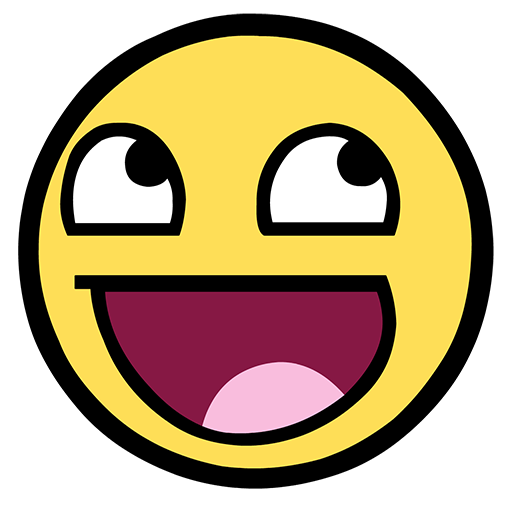
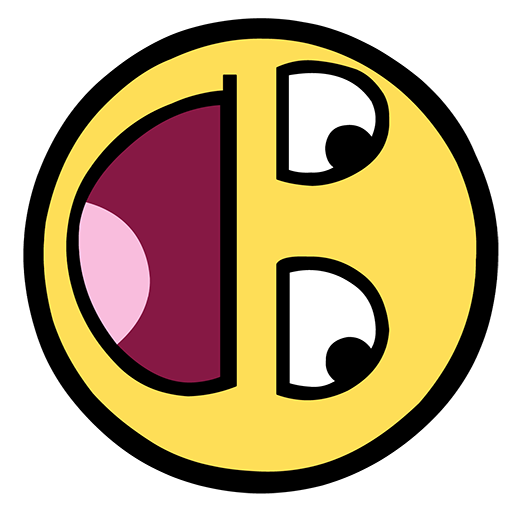
PlayerObject

diff --git a/Cowsteroids/PlayerObject.cpp b/Cowsteroids/PlayerObject.cpp
@@ -1,0 +1,76 @@
+#include "PlayerObject.h"
+
+#include <GLFW\glfw3.h>
+#include <iostream>
+#include "InputManager.h"
+
+PlayerObject::PlayerObject(glm::vec2 pos, glm::vec2 size, Texture sprite, glm::vec3 color, float rotation)
+{
+	this->position = pos;
+	this->size = size;
+	this->velocity = glm::vec2(0.0f, 0.0f);
+	this->color = color;
+	this->rotation = rotation;
+	this->sprite = sprite;
+	this->speed = 0.0f;
+	this->acceleration = 0.0f;
+	this->maxSpeed = 5.0f;
+}
+
+PlayerObject::~PlayerObject()
+{
+
+}
+
+void PlayerObject::HandleInput(float dt)
+{
+	if (InputManager::Held(GLFW_KEY_A))
+	{
+		rotation -= dt;
+	}
+	if (InputManager::Held(GLFW_KEY_D))
+	{
+		rotation += dt;
+	}
+	if (InputManager::Held(GLFW_KEY_W))
+	{
+		acceleration += dt;
+	}
+	if (InputManager::Held(GLFW_KEY_S))
+	{
+		acceleration -= dt;
+	}
+
+	if (!InputManager::Held(GLFW_KEY_W) && !InputManager::Held(GLFW_KEY_S))
+	{
+		acceleration = 0.0f;
+		if (speed > 0.05f)
+		{
+			speed -= dt;
+		}
+		else if (speed < -0.05f)
+		{
+			speed += dt;
+		}
+		else
+		{
+			speed = 0.0f;
+		}
+	}
+
+	speed += acceleration;
+
+	if (speed > maxSpeed)
+	{
+		speed = maxSpeed;
+	}
+	else if (-speed > maxSpeed)
+	{
+		speed = -maxSpeed;
+	}
+
+	glm::vec2 dir(speed * cos(rotation), speed * sin(rotation));
+	std::cout << abs(speed) << std::endl;
+
+	position += dir;
+}

diff --git a/Cowsteroids/Game.cpp b/Cowsteroids/Game.cpp
@@ -36,11 +36,13 @@ void Game::Initialize()
 	ResourceManager::LoadTexture("../Assets/awesomeface.png", true, "ball");
 
 	spriteRenderer = new SpriteRenderer(ResourceManager::GetShader("sprite"));
+
+	player = new PlayerObject(glm::vec2(100.0f, 100.0f), glm::vec2(100.0f, 100.0f), ResourceManager::GetTexture("ball"));
 }
 
 void Game::ProcessInput(float dt)
 {
-
+	player->HandleInput(dt);
 }
 
 void Game::Update(float dt)
@@ -51,4 +53,5 @@ void Game::Update(float dt)
 void Game::Render()
 {
 	spriteRenderer->DrawSprite(ResourceManager::GetTexture("background"), glm::vec2(0.0f, 0.0f), glm::vec2(this->width, this->height));
+	player->Draw(*spriteRenderer);
 }

diff --git a/Cowsteroids/PlayerObject.h b/Cowsteroids/PlayerObject.h
@@ -1,0 +1,22 @@
+#ifndef PLAYER_OBJECT_H
+#define PLAYER_OBJECT_H
+
+#include <glm\glm.hpp>
+
+#include "GameObject.h"
+
+class PlayerObject : public GameObject
+{
+public:
+	PlayerObject(glm::vec2 pos, glm::vec2 size, Texture sprite, glm::vec3 color = glm::vec3(1.0f, 1.0f, 1.0f), float rotation = 0.0f);
+	~PlayerObject();
+
+	void HandleInput(float dt);
+
+private:
+	float speed;
+	float acceleration;
+	float maxSpeed;
+};
+
+#endif

diff --git a/Cowsteroids/GameObject.cpp b/Cowsteroids/GameObject.cpp
@@ -26,10 +26,6 @@ GameObject::~GameObject()
 
 void GameObject::Draw(SpriteRenderer & renderer)
 {
+	
 	renderer.DrawSprite(this->sprite, this->position, this->size, this->rotation, this->color);
-}
-
-void GameObject::ProcessInput(float dt)
-{
-
 }

diff --git a/Cowsteroids/Game.h b/Cowsteroids/Game.h
@@ -2,6 +2,7 @@
 #define GAME_H
 
 #include "SpriteRenderer.h"
+#include "PlayerObject.h"
 
 enum GameState
 {
@@ -32,6 +33,8 @@ private:
 	int height;
 
 	SpriteRenderer* spriteRenderer;
+
+	PlayerObject* player;
 };
 
 #endif

diff --git a/Cowsteroids/Program.cpp b/Cowsteroids/Program.cpp
@@ -44,7 +44,8 @@ void main()
 		lastFrame = currentFrame;
 
 		glfwPollEvents();
-
+		InputManager::UpdateKeys();
+		
 		cowsteroids->ProcessInput(deltaTime);
 		cowsteroids->Update(deltaTime);
 

diff --git a/Cowsteroids/GameObject.h b/Cowsteroids/GameObject.h
@@ -15,9 +15,7 @@ public:
 
 	void Draw(SpriteRenderer &renderer);
 
-	virtual void ProcessInput(float dt);
-
-private:
+protected:
 	glm::vec2 position;
 	glm::vec2 size;
 	glm::vec2 velocity;
